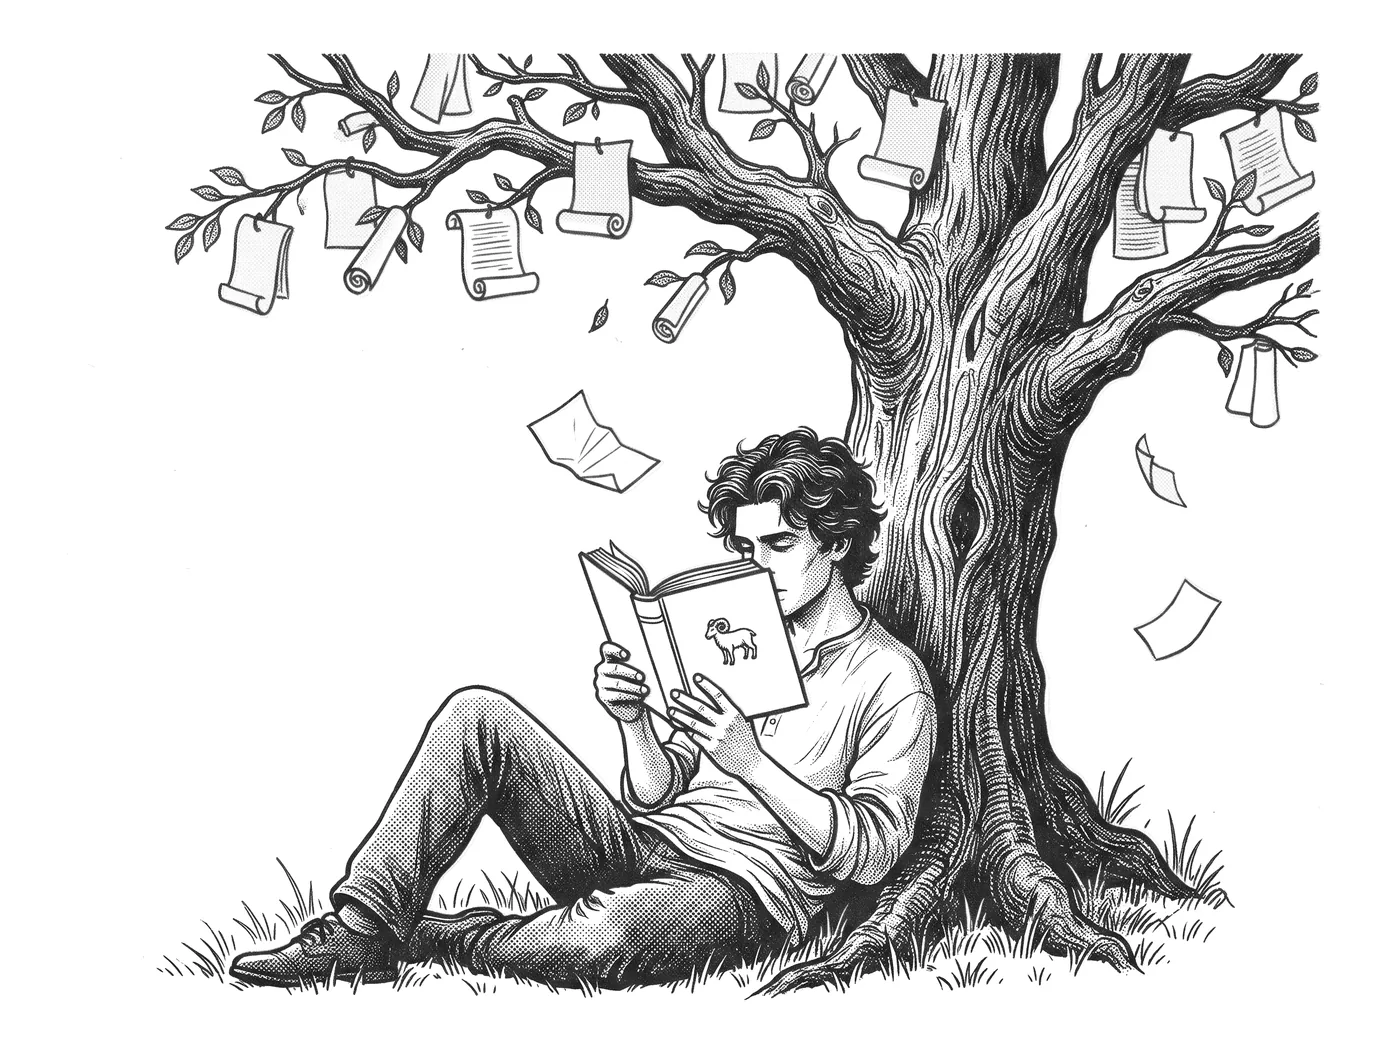
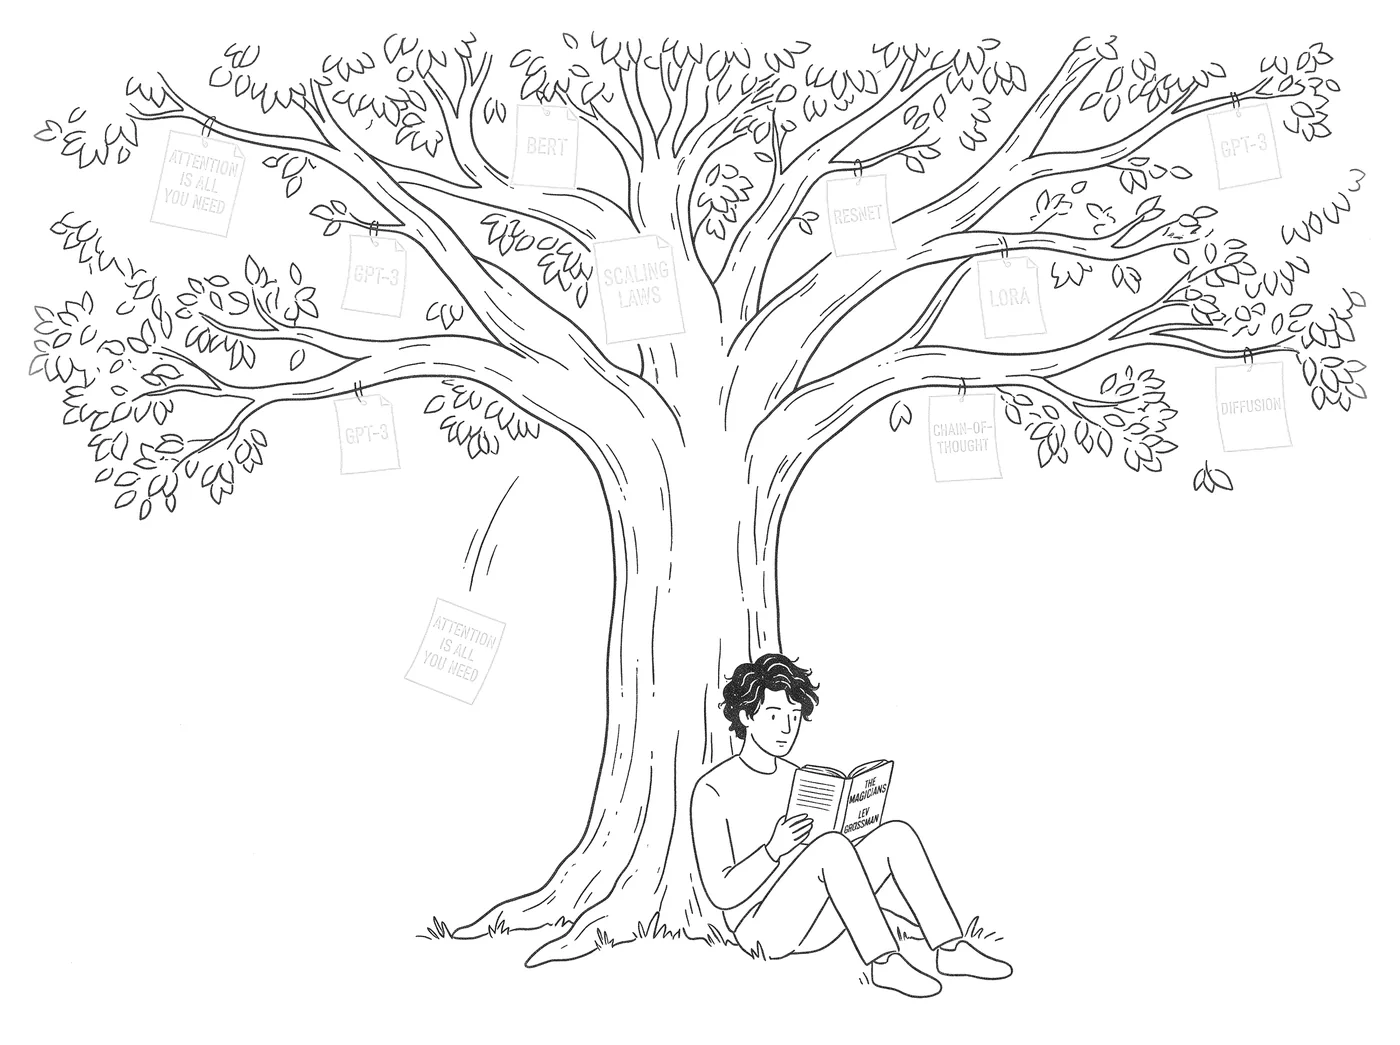
feat: redraw the paper tree with legible AI paper titles (#15)
Plain line art, a smaller reader holding The Magicians by Lev Grossman, and papers titled Attention Is All You Need, BERT, GPT-3 and others. The about illustration column is wider so the titles stay readable.

diff --git a/about.html b/about.html
@@ -57,7 +57,7 @@
       <div class="about-grid">
         <figure class="art about-art">
           <a>
-            <div class="print"><img class="k" src="assets/print/tree-k.webp" width="1400" height="1045" alt="Illustration of a young man reading a fantasy novel under a tree that grows research papers instead of apples" loading="lazy"><img class="r" src="assets/print/tree-r.webp" width="1400" height="1045" alt="" loading="lazy"></div>
+            <div class="print"><img class="k" src="assets/print/tree-k.webp" width="1400" height="1045" alt="Line drawing of a young man reading The Magicians by Lev Grossman under a tree whose fruit are AI papers such as Attention Is All You Need, BERT and GPT-3" loading="lazy"><img class="r" src="assets/print/tree-r.webp" width="1400" height="1045" alt="" loading="lazy"></div>
           </a>
         </figure>
         <div data-reveal>

diff --git a/assets/site.css b/assets/site.css
@@ -310,7 +310,7 @@ footer { border-top: 1px solid var(--ink); }
   .plate { grid-template-columns: minmax(0, 1.45fr) minmax(0, 1fr); gap: clamp(40px, 5vw, 80px); }
   .plate--flip { grid-template-columns: minmax(0, 1fr) minmax(0, 1.45fr); }
   .plate--flip .art { order: 2; }
-  .about-grid { grid-template-columns: minmax(0, 1fr) minmax(0, 1.15fr); }
+  .about-grid { grid-template-columns: minmax(0, 1.3fr) minmax(0, 1fr); }
   .about-art { position: sticky; top: 96px; }
 }
 @media (max-width: 979px) {

diff --git a/assets/print/SOURCES.md b/assets/print/SOURCES.md
@@ -21,7 +21,7 @@ Every prompt ended with this shared style block:
 | koku    | faceted perfume bottle, vapour breaking into ranked dots, rose / fig / bergamot sprigs |
 | cv      | paper letters and envelopes flying in an arc like migrating birds |
 | medical | one anatomical heart engraving with a regression curve and data points, stethoscope |
-| tree    | Newton under the apple tree, redone: a young man reads a fantasy novel (ram emblem, a nod to Lev Grossman's The Magicians) against a tree that grows rolled research papers, 4:3 |
+| tree    | Newton under the apple tree, redone in plain line art: a young man reads The Magicians (Lev Grossman) against a tree whose fruit are AI papers with legible titles (Attention Is All You Need, BERT, GPT-3, ResNet, LoRA, Scaling Laws, Chain-of-Thought, Diffusion), 4:3 |
 | contact | paper airplane folded from a letter, dotted looping trail |
 
 `sep.py` splits each PNG into a black-ink layer (`*-k.webp`) and a red-ink layer
